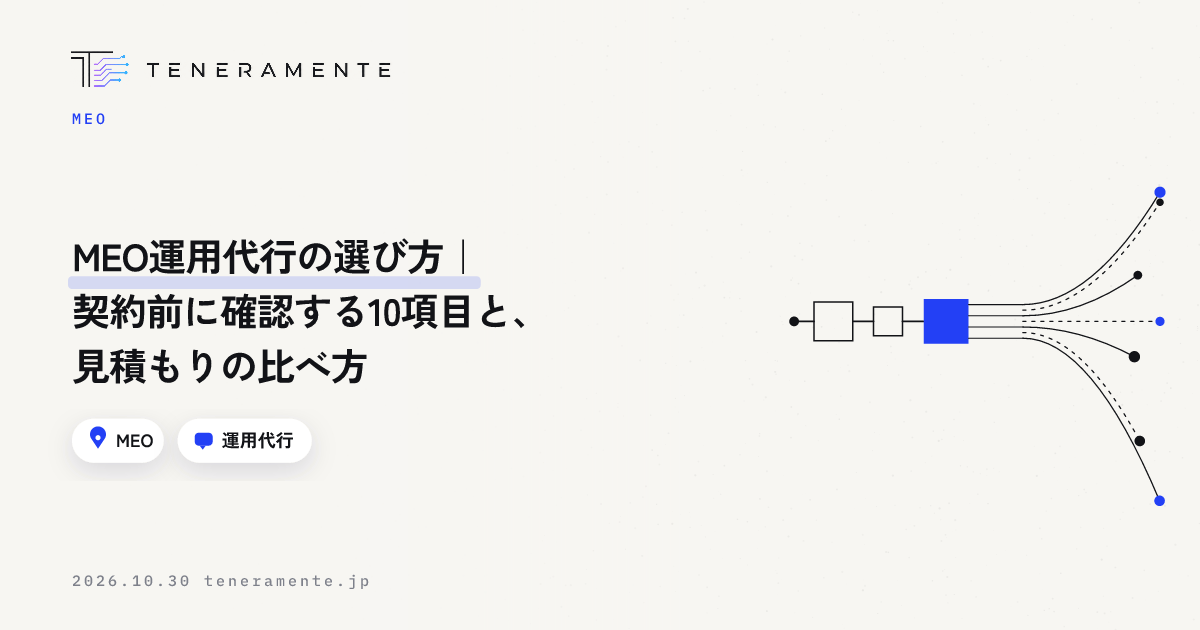
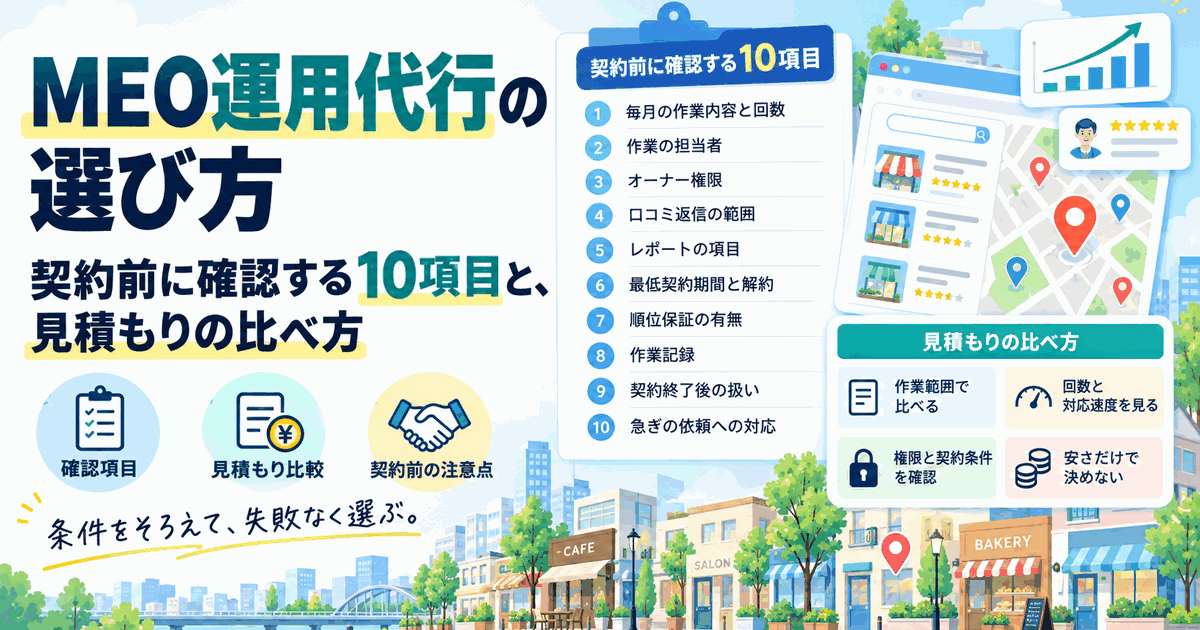
covers: 記事のトップ画像を ChatGPT の画像に差し替え（k101・k102・m114・m101）

diff --git a/mieroom/blog.html b/mieroom/blog.html
@@ -166,7 +166,7 @@ src="https://www.facebook.com/tr?id=28086413637650888&ev=PageView&noscript=1"
     <div class="blog-grid stagger" id="grid">
 <!-- MILPAGE:START ミルページで書いた記事。ここは自動生成なので直接編集しないでください -->
       <a class="bpost" data-cat="業務効率化" data-text="物確（物件確認）の電話を減らす方法｜空室確認を自動化する仕組みと運用 物確 業務効率化 空室確認 業者間サイト 賃貸仲介" href="articles/bukkaku-denwa-herasu.html">
-        <div class="bcover bcover--img"><img src="assets/covers/bukkaku-denwa-herasu.png" alt="物確（物件確認）の電話を減らす方法｜空室確認を自動化する仕組みと運用" loading="lazy" decoding="async" width="640" height="360"></div>
+        <div class="bcover bcover--img"><img src="assets/covers/bukkaku-denwa-herasu-card.webp" alt="物確（物件確認）の電話を減らす方法｜空室確認を自動化する仕組みと運用" loading="lazy" decoding="async" width="640" height="360"></div>
         <div class="bbody">
           <div class="bmeta"><span class="bcat">業務効率化</span><span class="bdate">2026.10.31</span></div>
           <h3>物確（物件確認）の電話を減らす方法｜空室確認を自動化する仕組みと運用</h3>
@@ -176,7 +176,7 @@ src="https://www.facebook.com/tr?id=28086413637650888&ev=PageView&noscript=1"
       </a>
 
       <a class="bpost" data-cat="組織・育成" data-text="繁忙期前に賃貸仲介の店舗がやっておく準備｜11月・12月のチェックリスト 繁忙期 店舗運営 準備 業務改善 賃貸仲介" href="articles/hanbouki-mae-junbi-checklist.html">
-        <div class="bcover bcover--img"><img src="assets/covers/hanbouki-mae-junbi-checklist.png" alt="繁忙期前に賃貸仲介の店舗がやっておく準備｜11月・12月のチェックリスト" loading="lazy" decoding="async" width="640" height="360"></div>
+        <div class="bcover bcover--img"><img src="assets/covers/hanbouki-mae-junbi-checklist-card.webp" alt="繁忙期前に賃貸仲介の店舗がやっておく準備｜11月・12月のチェックリスト" loading="lazy" decoding="async" width="640" height="360"></div>
         <div class="bbody">
           <div class="bmeta"><span class="bcat">組織・育成</span><span class="bdate">2026.10.30</span></div>
           <h3>繁忙期前に賃貸仲介の店舗がやっておく準備｜11月・12月のチェックリスト</h3>

diff --git a/blog.html b/blog.html
@@ -143,7 +143,7 @@ src="https://www.facebook.com/tr?id=28086413637650888&ev=PageView&noscript=1"
   <div class="wrap">
     <div class="articles-grid" data-articles><!--STATIC-CARDS-->
       <a class="article-card reveal" href="2026-10-31-app-kaihatsu-mitsumori-mikata.html" data-cat="app">
-        <div class="visual"><img src="assets/img/covers/2026-10-31-app-kaihatsu-mitsumori-mikata.png" alt="" width="640" height="336" loading="lazy" decoding="async" style="position:absolute;inset:0;width:100%;height:100%;object-fit:cover;"></div>
+        <div class="visual"><img src="assets/img/covers/2026-10-31-app-kaihatsu-mitsumori-mikata-card.webp" alt="" width="640" height="336" loading="lazy" decoding="async" style="position:absolute;inset:0;width:100%;height:100%;object-fit:cover;"></div>
         <div class="meta-row">
           <span class="cat">Web App</span>
           <span class="dot"></span>
@@ -154,7 +154,7 @@ src="https://www.facebook.com/tr?id=28086413637650888&ev=PageView&noscript=1"
         <span class="read">10 min read</span>
       </a>
       <a class="article-card reveal" href="2026-10-30-meo-unyo-daiko-erabikata.html" data-cat="meo">
-        <div class="visual v-violet"><img src="assets/img/covers/2026-10-30-meo-unyo-daiko-erabikata.png" alt="" width="640" height="336" loading="lazy" decoding="async" style="position:absolute;inset:0;width:100%;height:100%;object-fit:cover;"></div>
+        <div class="visual v-violet"><img src="assets/img/covers/2026-10-30-meo-unyo-daiko-erabikata-card.webp" alt="" width="640" height="336" loading="lazy" decoding="async" style="position:absolute;inset:0;width:100%;height:100%;object-fit:cover;"></div>
         <div class="meta-row">
           <span class="cat">MEO</span>
           <span class="dot"></span>

diff --git a/mieroom/articles/bukkaku-denwa-herasu.html b/mieroom/articles/bukkaku-denwa-herasu.html
@@ -74,7 +74,7 @@
   </div>
 </section>
 <div class="post-cover">
-  <div class="band band--img"><img src="../assets/covers/bukkaku-denwa-herasu.png" alt="物確（物件確認）の電話を減らす方法｜空室確認を自動化する仕組みと運用" width="1200" height="675" decoding="async"></div>
+  <div class="band band--img"><img src="../assets/covers/bukkaku-denwa-herasu.webp" alt="物確（物件確認）の電話を減らす方法｜空室確認を自動化する仕組みと運用" width="1200" height="675" decoding="async"></div>
 </div>
 <div class="post-body">
 <p>繁忙期になると、電話が鳴っている時間のほうが長い日が出てきます。内容の多くは物確（物件確認）で、聞かれるのは空いているかどうかという一点です。<strong>物確の電話が減らないのは件数が多いからではなく、聞けば分かる状態のままにしてあるから</strong>です。この記事では、かける側と受ける側の両方から、電話を減らすための具体的な手順を整理します。</p>

diff --git a/mieroom/articles/hanbouki-mae-junbi-checklist.html b/mieroom/articles/hanbouki-mae-junbi-checklist.html
@@ -74,7 +74,7 @@
   </div>
 </section>
 <div class="post-cover">
-  <div class="band band--img"><img src="../assets/covers/hanbouki-mae-junbi-checklist.png" alt="繁忙期前に賃貸仲介の店舗がやっておく準備｜11月・12月のチェックリスト" width="1200" height="675" decoding="async"></div>
+  <div class="band band--img"><img src="../assets/covers/hanbouki-mae-junbi-checklist.webp" alt="繁忙期前に賃貸仲介の店舗がやっておく準備｜11月・12月のチェックリスト" width="1200" height="675" decoding="async"></div>
 </div>
 <div class="post-body">
 <p>1〜3月に入ってから業務の形を変えようとしても、まず手が空きません。繁忙期に起きる取りこぼしは、たいてい繁忙期そのものではなく、<strong>その前に決めておくべきことが決まっていなかったことが原因</strong>です。この記事では、11月と12月にやっておく準備を、そのまま使えるチェックリストの形で整理します。</p>

diff --git a/2026-10-31-app-kaihatsu-mitsumori-mikata.html b/2026-10-31-app-kaihatsu-mitsumori-mikata.html
@@ -179,7 +179,7 @@ src="https://www.facebook.com/tr?id=28086413637650888&ev=PageView&noscript=1"
 </section>
 
 <div class="post-cover">
-  <div class="post-cover-inner"><img src="assets/img/covers/2026-10-31-app-kaihatsu-mitsumori-mikata.png" alt="アプリ開発の見積書の見方｜項目ごとの意味と、2社を比べるときの注意点" width="1200" height="630" fetchpriority="high" decoding="async" style="position:absolute;inset:0;width:100%;height:100%;object-fit:cover;"></div>
+  <div class="post-cover-inner"><img src="assets/img/covers/2026-10-31-app-kaihatsu-mitsumori-mikata.webp" alt="アプリ開発の見積書の見方｜項目ごとの意味と、2社を比べるときの注意点" width="1200" height="630" fetchpriority="high" decoding="async" style="position:absolute;inset:0;width:100%;height:100%;object-fit:cover;"></div>
 </div>
 
 <div class="post-wrap">

diff --git a/2026-10-30-meo-unyo-daiko-erabikata.html b/2026-10-30-meo-unyo-daiko-erabikata.html
@@ -179,7 +179,7 @@ src="https://www.facebook.com/tr?id=28086413637650888&ev=PageView&noscript=1"
 </section>
 
 <div class="post-cover">
-  <div class="post-cover-inner"><img src="assets/img/covers/2026-10-30-meo-unyo-daiko-erabikata.png" alt="MEO運用代行の選び方｜契約前に確認する10項目と、見積もりの比べ方" width="1200" height="630" fetchpriority="high" decoding="async" style="position:absolute;inset:0;width:100%;height:100%;object-fit:cover;"></div>
+  <div class="post-cover-inner"><img src="assets/img/covers/2026-10-30-meo-unyo-daiko-erabikata.webp" alt="MEO運用代行の選び方｜契約前に確認する10項目と、見積もりの比べ方" width="1200" height="630" fetchpriority="high" decoding="async" style="position:absolute;inset:0;width:100%;height:100%;object-fit:cover;"></div>
 </div>
 
 <div class="post-wrap">
